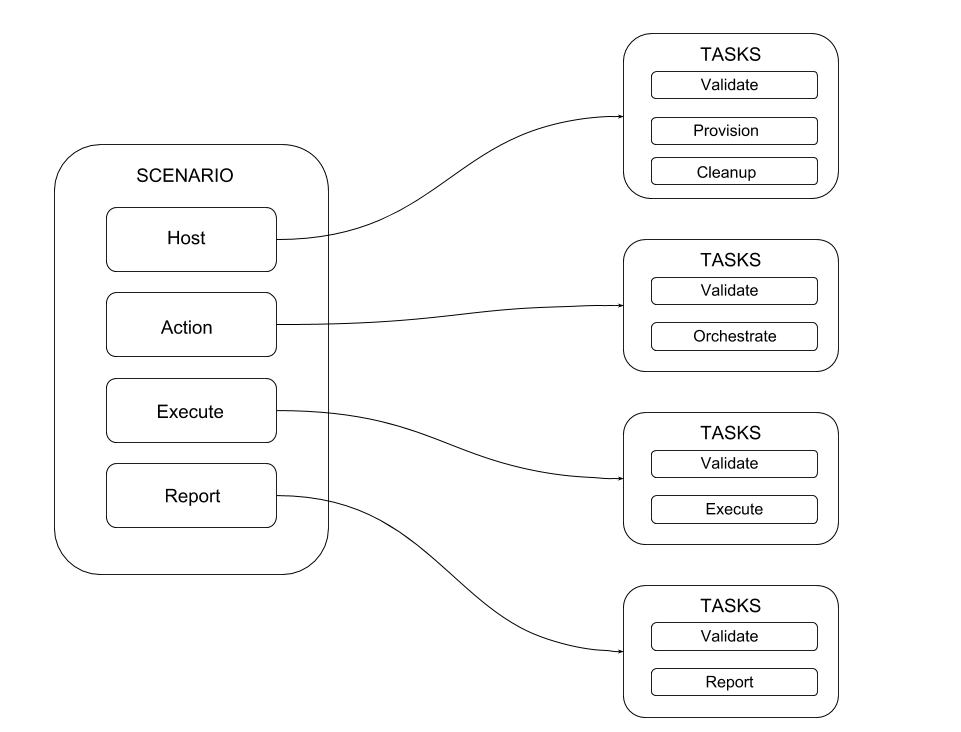
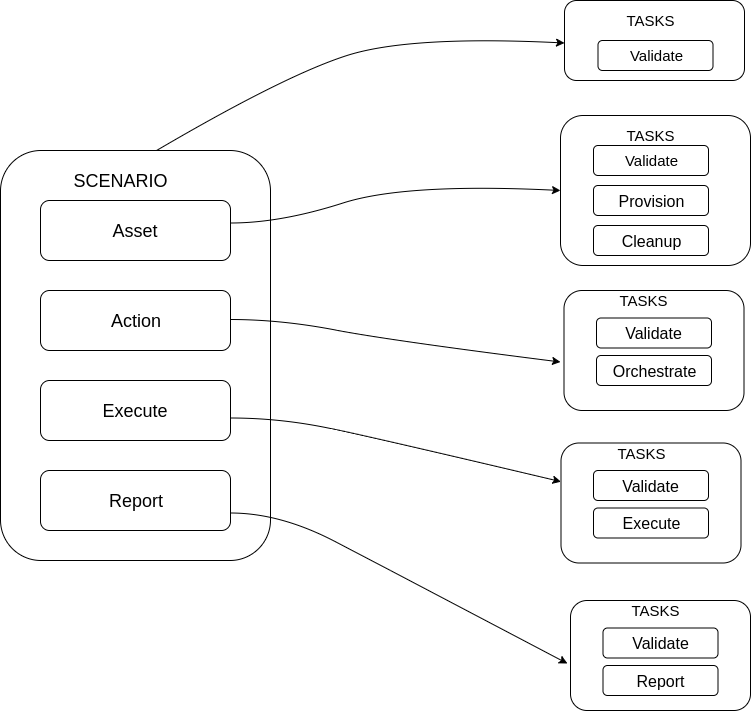
[CID 5284] Developer's Guide Architecture page typo's / suggestions

diff --git a/docs/developers/architecture.rst b/docs/developers/architecture.rst
@@ -27,15 +27,19 @@ Carbon Object
 -------------
 
 As we just learned from the `basics <architecture.html#basics>`_ section,
-the carbon object contains resources. Each resource has a list of associated
-tasks to it. Those tasks will execute the resoures asscoiated to it.
+the carbon object contains resources. The core resource which makes up the
+carbon compound is a scenario resource. A scenario resource consists of multiple
+compounds of 'resources' which derive tasks for the scenario to be processed.
+Each resource has a list of associated tasks to it. When carbon executes these
+tasks the resources associated to that task are used.
 
 Lets see a diagram with the available resources for a carbon object. The carbon
-object is directly the entire scenario.
+object is made up of scenario resource and the scenario resource comprises of
+other resources(asset, action, execute, report).
 
 .. image:: ../_static/cbn_scenario_resource.png
 
-The diagram above shows the resources that make up a scenario. The table
+The diagram above shows the resources that make up a scenario resource. The table
 below describes each resource in more detail.
 
 .. list-table::
@@ -44,6 +48,10 @@ below describes each resource in more detail.
 
     *   - Resource
         - Description
+
+    *   - Scenario
+        - The core resource which makes up the carbon compound. The scenario
+          resource holds the other resources(asset, action, execute and report)
 
     *   - Asset
         - The asset resources define the system resources for the scenario.
@@ -67,7 +75,7 @@ below describes each resource in more detail.
           import test artifacts generated during the execution phase.
 
 Now that we have knowledge about how a carbon object is constructed. Which
-includes a number of resources. Lets dive depper into the resources. What do
+includes a number of resources. Lets dive deeper into the resources. What do
 we mean by this? Every resource has a number of tasks that it can correspond
 to.
 
@@ -75,15 +83,18 @@ to.
 
 The diagram above shows the carbon object with resources defined. Each of
 those resources then have a list of tasks associated to it. This means that
-when carbon runs a scenario, for each task to be processed. It will run the
+when carbon runs a scenario, for each task to be processed it will run the
 given resources associated to that given task.
 
-i.e. The host resource has a validate, provision and clean up task. This means
-that when carbon runs the validate task it will process that host resource.
-When it goes to the provision task, it will process that host resource and
+e.g. The scenario resource has validate task. This means that when carbon runs
+the validate task it will process the scenario resource.
+
+e.g. The asset resource has a validate, provision and clean up task. This means
+that when carbon runs the validate task it will process that asset resource.
+When it goes to the provision task, it will process that asset resource and
 the same for clean up task.
 
-i.e. The action resource has a validate and orchestrate task. This means that
+e.g. The action resource has a validate and orchestrate task. This means that
 when carbon runs the validate task it will process that action resource. When
 it goes to the orchestrate task, it will process that action resource.
 

diff --git a/docs/users/configuration.rst b/docs/users/configuration.rst
@@ -9,6 +9,7 @@ sufficient; however, please read through the options you have.
 
 Where it is loaded from (using precedence low to high):
 
+#. /etc/carbon/carbon.cfg
 #. ./carbon.cfg (current working directory)
 #. CARBON_SETTINGS environment variable to the location of the file
 
@@ -16,7 +17,7 @@ Where it is loaded from (using precedence low to high):
 
    It is important to realize if you have a configuration file set using
    both options, the configuration files will be combined, and common
-   key values will be overrided by the higher precedent option, which will
+   key values will be overridden by the higher precedent option, which will
    be the CARBON_SETTINGS environment variable.
 
 Configuration example (with all options):

diff --git a/docs/users/definitions/orchestrate.rst b/docs/users/definitions/orchestrate.rst
@@ -190,7 +190,7 @@ Carbon Ansible Configuration
 
 In the carbon configuration file, you can set some options related to ansible.
 These values should be set in the **[orchestrator:ansible]** section of the
-config file.  The following are the settings.
+carbon.cfg file.  The following are the settings.
 
 .. list-table::
     :widths: auto
